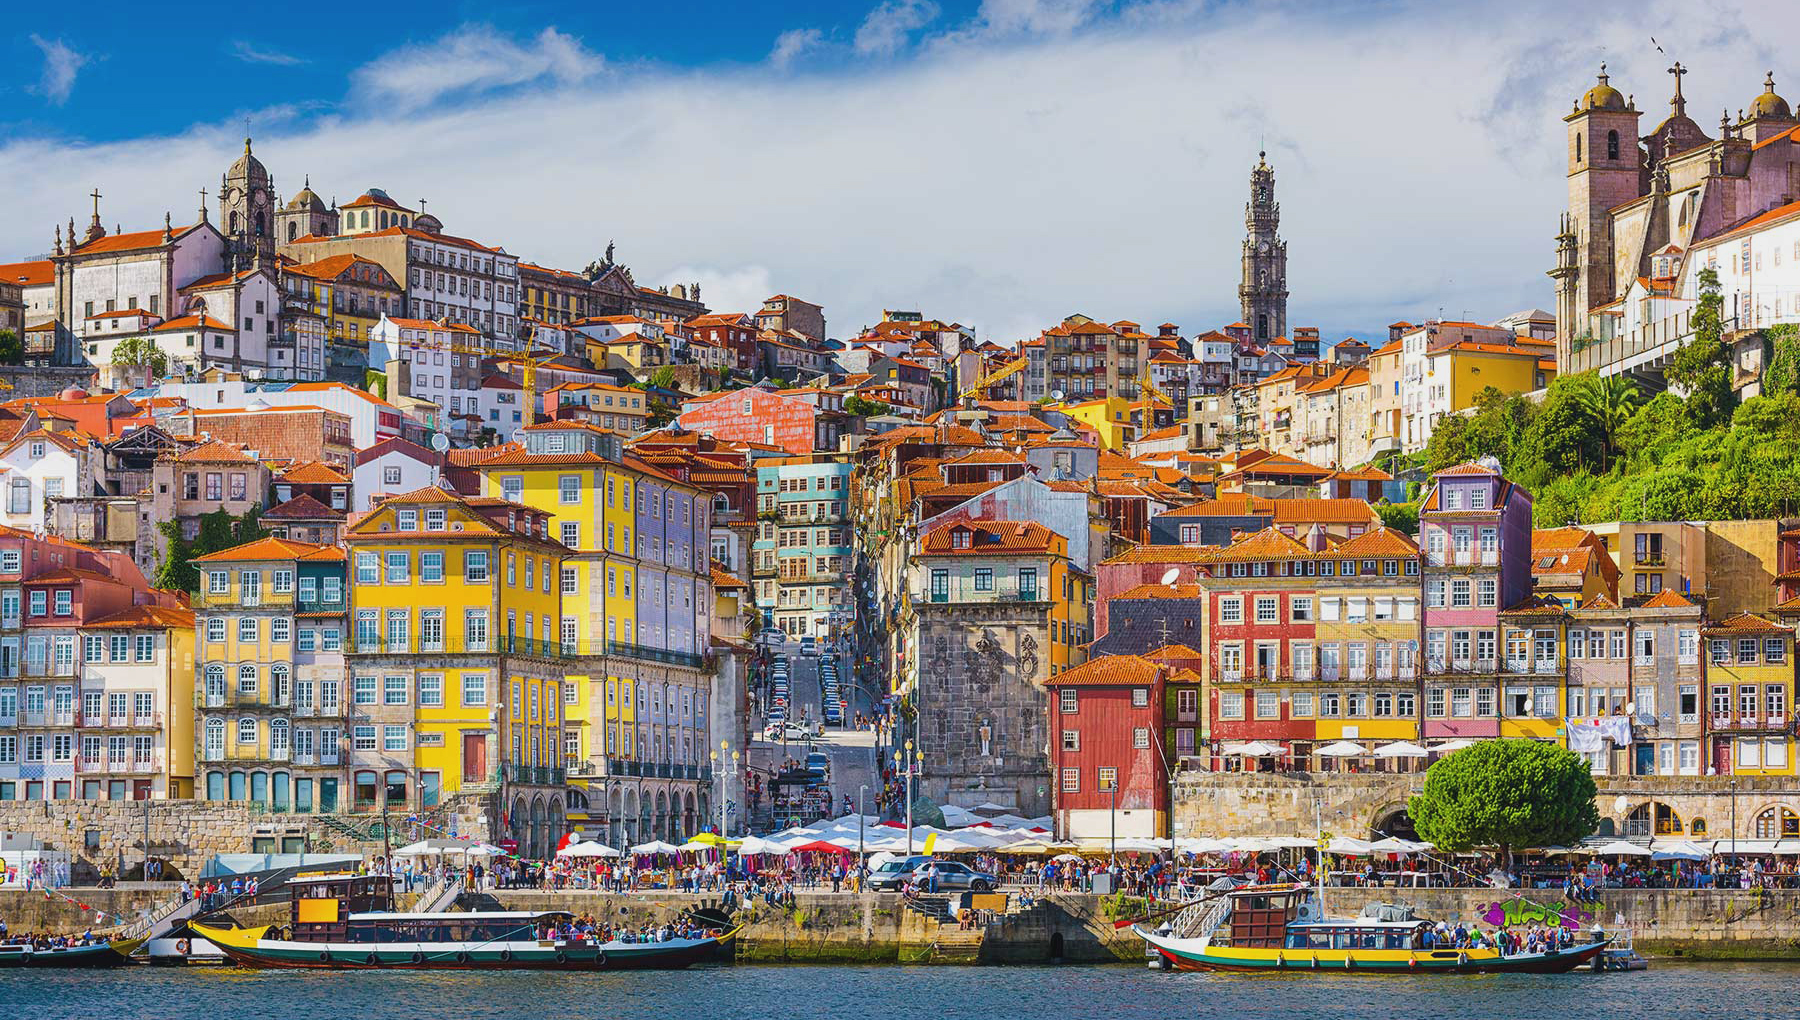
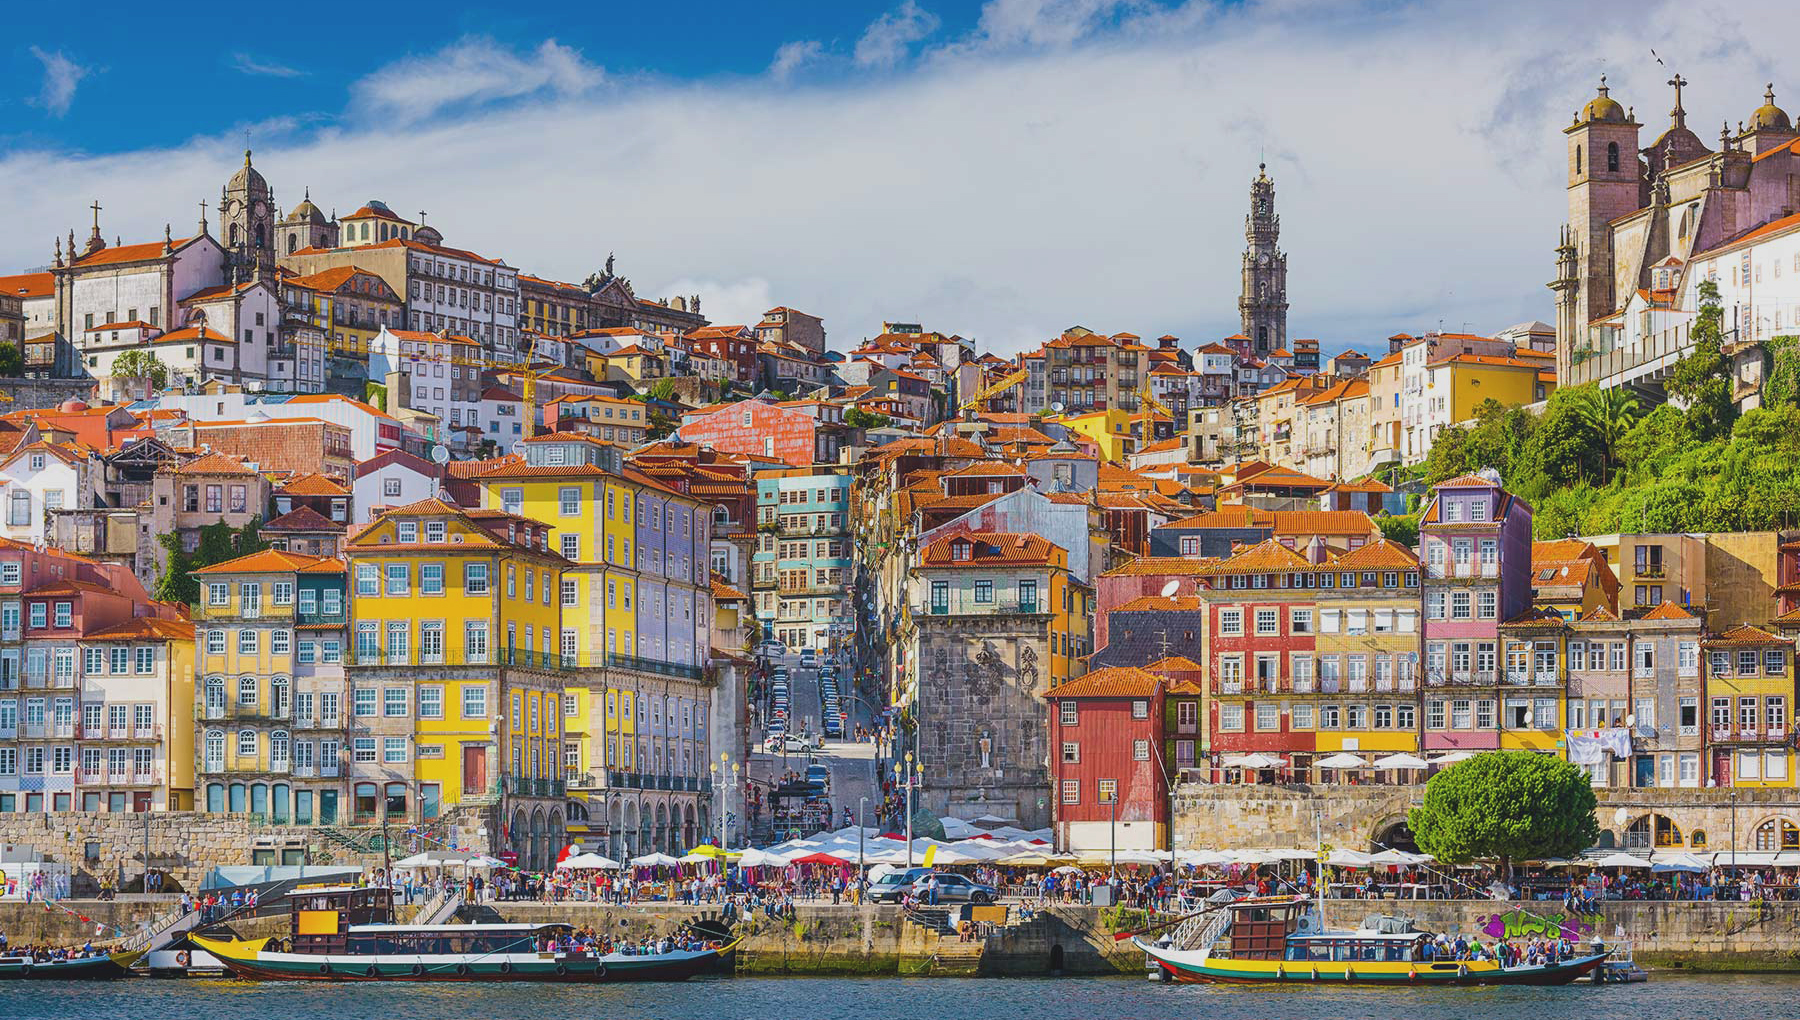
Added photos to the cards

diff --git a/src/js/component/cardContainer.jsx b/src/js/component/cardContainer.jsx
@@ -56,41 +56,41 @@ const CardContainer = () => {
 					aria-labelledby="pills-home-tab">
 					<div className="row">
 						<Card
-							imgSrc="http://lorempixel.com/300/200/nature"
-							imgAlt="..."
-							title="Málaga"
-							text="5 días y 3 noches"
-							buttonText="59€"></Card>
+							imgSrc={newYork}
+							imgAlt="New York"
+							title="New York"
+							text="Flight from Madrid"
+							buttonText="390€"></Card>
 						<Card
-							imgSrc="http://lorempixel.com/300/200/nature"
-							imgAlt="..."
-							title="Málaga"
-							text="5 días y 3 noches"
-							buttonText="59€ "></Card>
+							imgSrc={andorra}
+							imgAlt="Andorra"
+							title="Andorra"
+							text="5 days and 3 nights"
+							buttonText="299€"></Card>
 						<Card
-							imgSrc="http://lorempixel.com/300/200/nature"
-							imgAlt="..."
-							title="Málaga"
-							text="5 días y 3 noches"
-							buttonText="59€ "></Card>
+							imgSrc={newDelhi}
+							imgAlt="Taj Mahal"
+							title="New Delhi"
+							text="Flight + 7 days and 5 nights"
+							buttonText="799€"></Card>
 						<Card
-							imgSrc="http://lorempixel.com/300/200/nature"
-							imgAlt="..."
-							title="Málaga"
-							text="5 días y 3 noches"
-							buttonText="59€ "></Card>
+							imgSrc={porto}
+							imgAlt="Porto Portugal"
+							title="Porto"
+							text="5 days and 3 nights"
+							buttonText="249€ "></Card>
 						<Card
-							imgSrc="http://lorempixel.com/300/200/nature"
-							imgAlt="..."
-							title="Málaga"
-							text="5 días y 3 noches"
-							buttonText="59€ "></Card>
+							imgSrc={london}
+							imgAlt="Westminster Palace"
+							title="London"
+							text="4 days and 2 nights"
+							buttonText="199€ "></Card>
 						<Card
-							imgSrc="http://lorempixel.com/300/200/nature"
-							imgAlt="..."
-							title="Málaga"
-							text="5 días y 3 noches"
-							buttonText="59€ "></Card>
+							imgSrc={paris}
+							imgAlt="Eiffel Tower"
+							title="Paris"
+							text="4 days and 2 nights"
+							buttonText="199€ "></Card>
 					</div>
 				</div>
 				<div
@@ -100,41 +100,41 @@ const CardContainer = () => {
 					aria-labelledby="pills-offers-tab">
 					<div className="row">
 						<Card
-							imgSrc="http://lorempixel.com/300/200/nature"
-							imgAlt="..."
-							title="Málaga"
-							text="5 días y 3 noches"
-							buttonText="59€ "></Card>
+							imgSrc={amsterdam}
+							imgAlt="Amsterdam"
+							title="Amsterdam"
+							text="3 days and 2 nights"
+							buttonText="99€"></Card>
 						<Card
-							imgSrc="http://lorempixel.com/300/200/nature"
-							imgAlt="..."
-							title="Málaga"
-							text="5 días y 3 noches"
-							buttonText="59€ "></Card>
+							imgSrc={malaga}
+							imgAlt="Malaga"
+							title="Malaga"
+							text="5 days with Manu - All inclusive"
+							buttonText="49€ "></Card>
 						<Card
-							imgSrc="http://lorempixel.com/300/200/nature"
-							imgAlt="..."
-							title="Málaga"
-							text="5 días y 3 noches"
-							buttonText="59€ "></Card>
+							imgSrc={rome}
+							imgAlt="Rome Colosseum"
+							title="Rome"
+							text="3 Nights - Five Stars Hotel"
+							buttonText="249€ "></Card>
 						<Card
-							imgSrc="http://lorempixel.com/300/200/nature"
-							imgAlt="..."
-							title="Málaga"
-							text="5 días y 3 noches"
-							buttonText="59€ "></Card>
+							imgSrc={seville}
+							imgAlt="Seville"
+							title="Seville"
+							text="3 days and 2 nights"
+							buttonText="79€ "></Card>
 						<Card
-							imgSrc="http://lorempixel.com/300/200/nature"
-							imgAlt="..."
-							title="Málaga"
-							text="5 días y 3 noches"
-							buttonText="59€ "></Card>
+							imgSrc={berlin}
+							imgAlt="Brandenburg gate"
+							title="Berlin"
+							text="5 days and 3 nights"
+							buttonText="239€ "></Card>
 						<Card
-							imgSrc="http://lorempixel.com/300/200/nature"
-							imgAlt="..."
-							title="Málaga"
-							text="5 días y 3 noches"
-							buttonText="59€ "></Card>
+							imgSrc={bilbao}
+							imgAlt="Guggenheim Museum"
+							title="Bilbao"
+							text="3 days and 2 nights"
+							buttonText="149€ "></Card>
 					</div>
 				</div>
 			</div>
